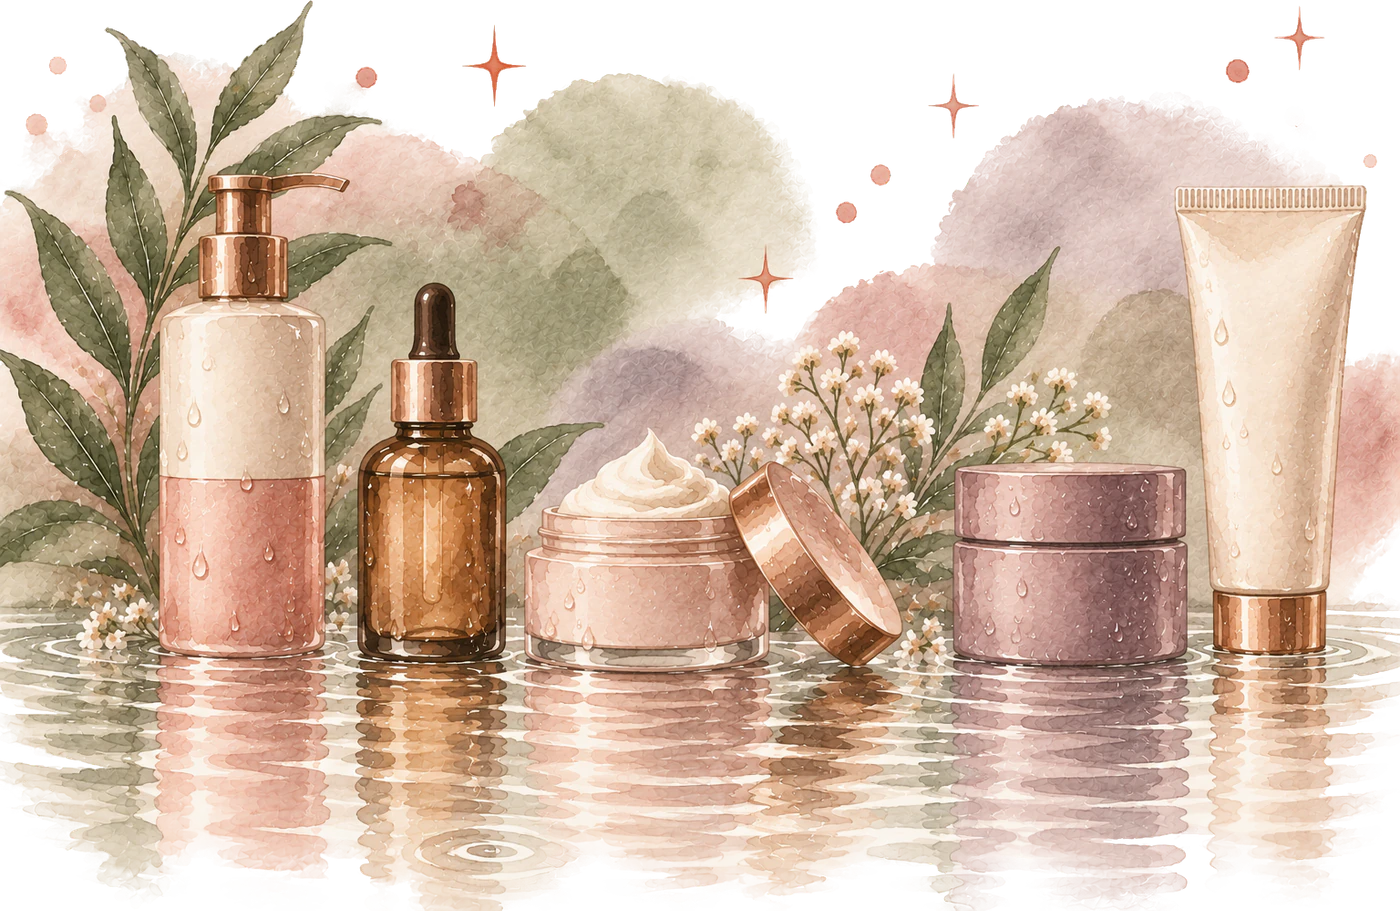
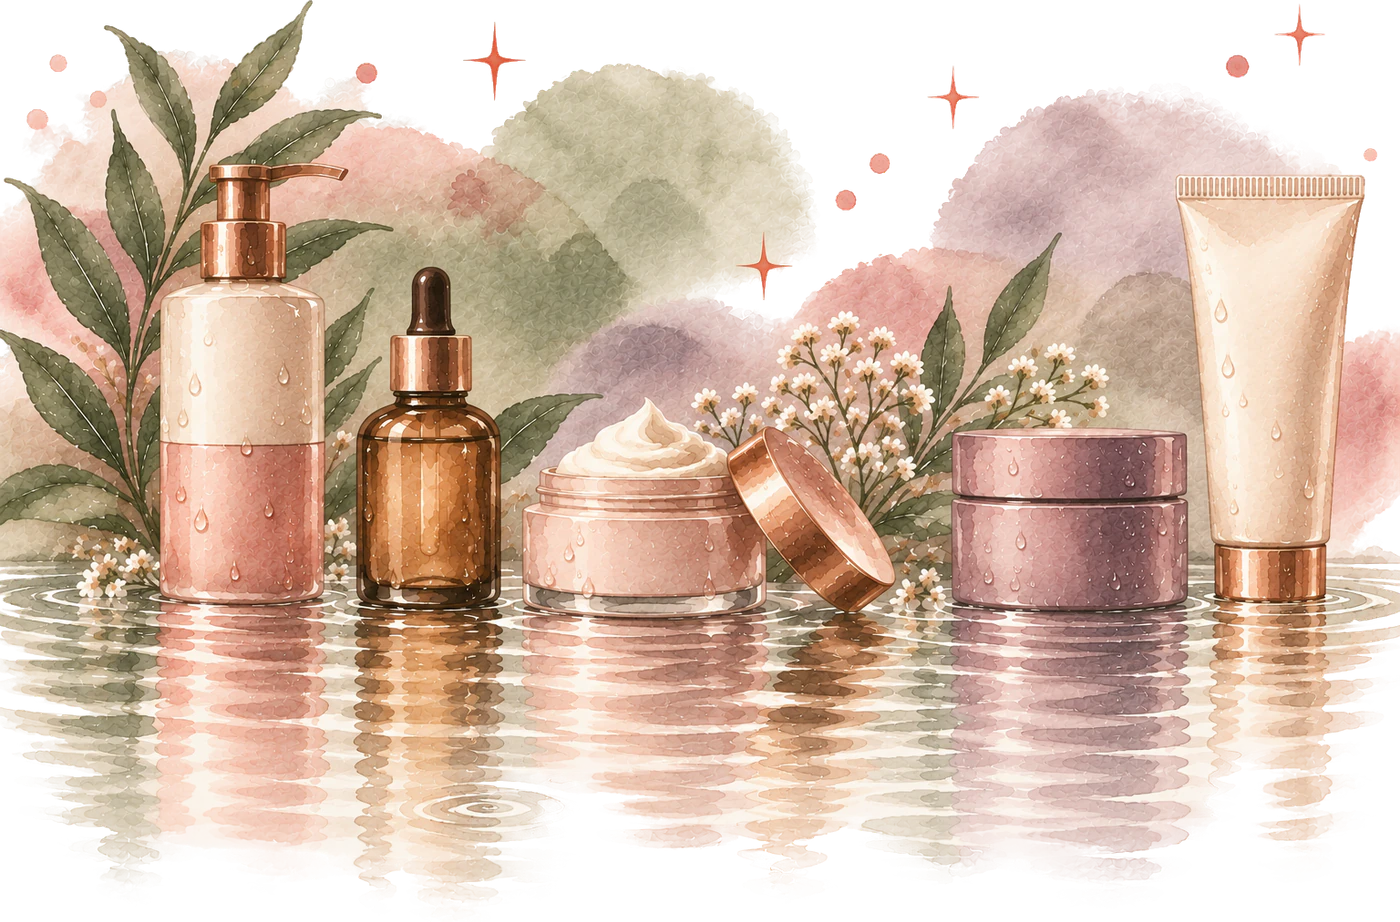
feat(home): swap in new-watercolor/home_transparent.png as the still life
Same scene as before, recut: 1400x922, 468 KB as WebP.

Claude-Session: https://claude.ai/code/session_01MwpnKhtvuYw5CEBRrAAAfN

diff --git a/app/(tabs)/index.tsx b/app/(tabs)/index.tsx
@@ -23,10 +23,10 @@ const ACTION_CARD_GAP = 12;
 // than squeeze the picture below this when larger text needs the room.
 const ACTION_ART_MIN_HEIGHT = 48;
 // The watercolor still life under the cards: bottles and jars standing in water,
-// on a transparent ground (new-watercolor/home_screen_transparent.png).
+// on a transparent ground (new-watercolor/home_transparent.png).
 const STILL_LIFE_ART = require("@/assets/illustrations/home-still-life.webp");
 // Its own proportions, so it is never stretched.
-const STILL_LIFE_ASPECT = 1400 / 911;
+const STILL_LIFE_ASPECT = 1400 / 922;
 // How far below the tab bar's top it reaches, in dp: 1.5 cm on a phone (160 dp
 // to the inch), so its water runs on behind the bar. No spacing token is that
 // large, so it is named here rather than typed inline.
